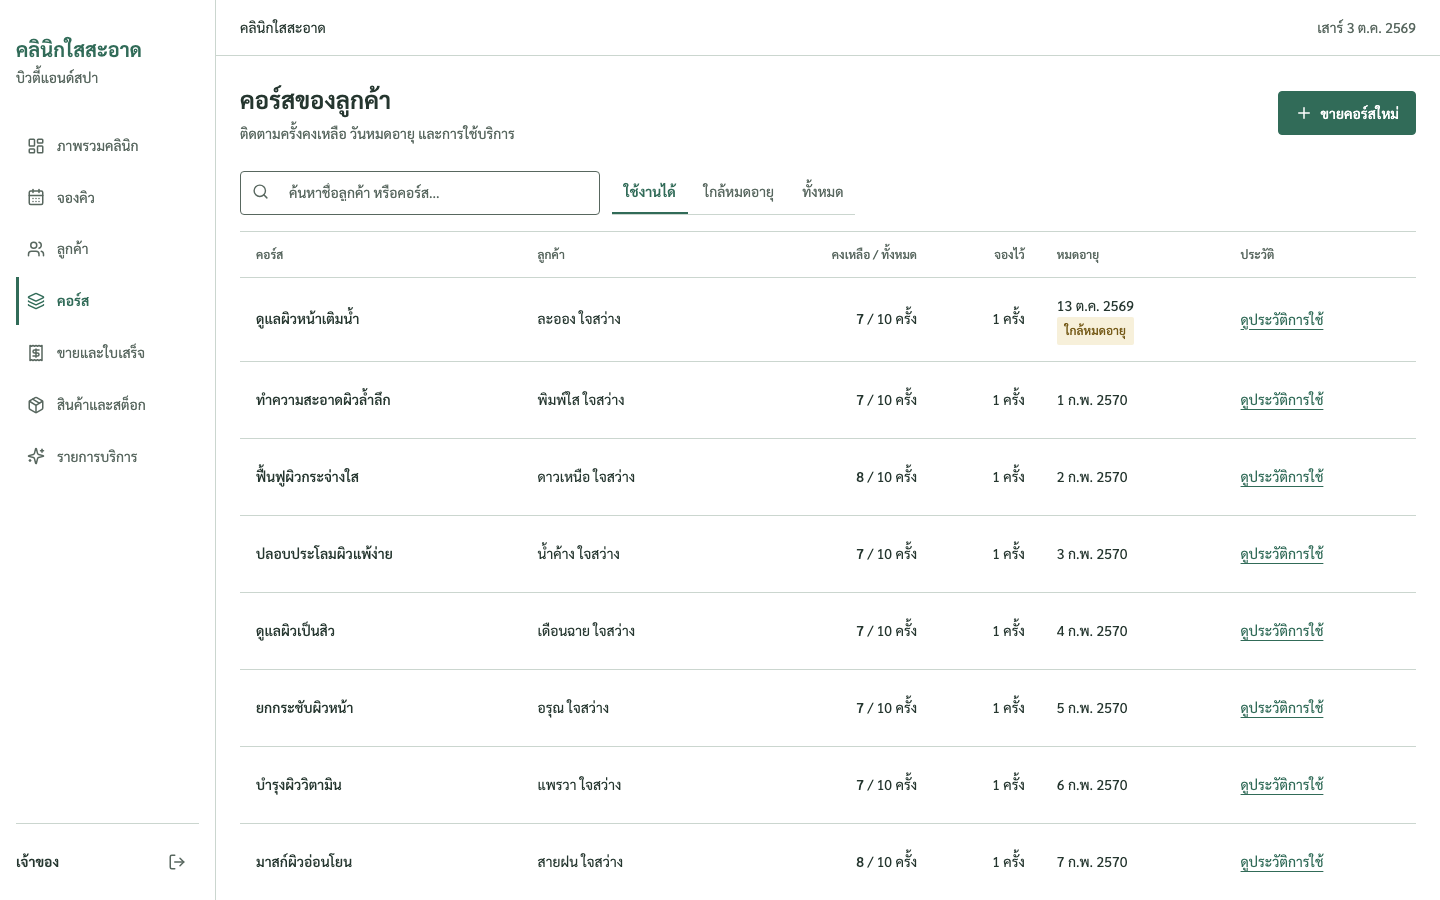
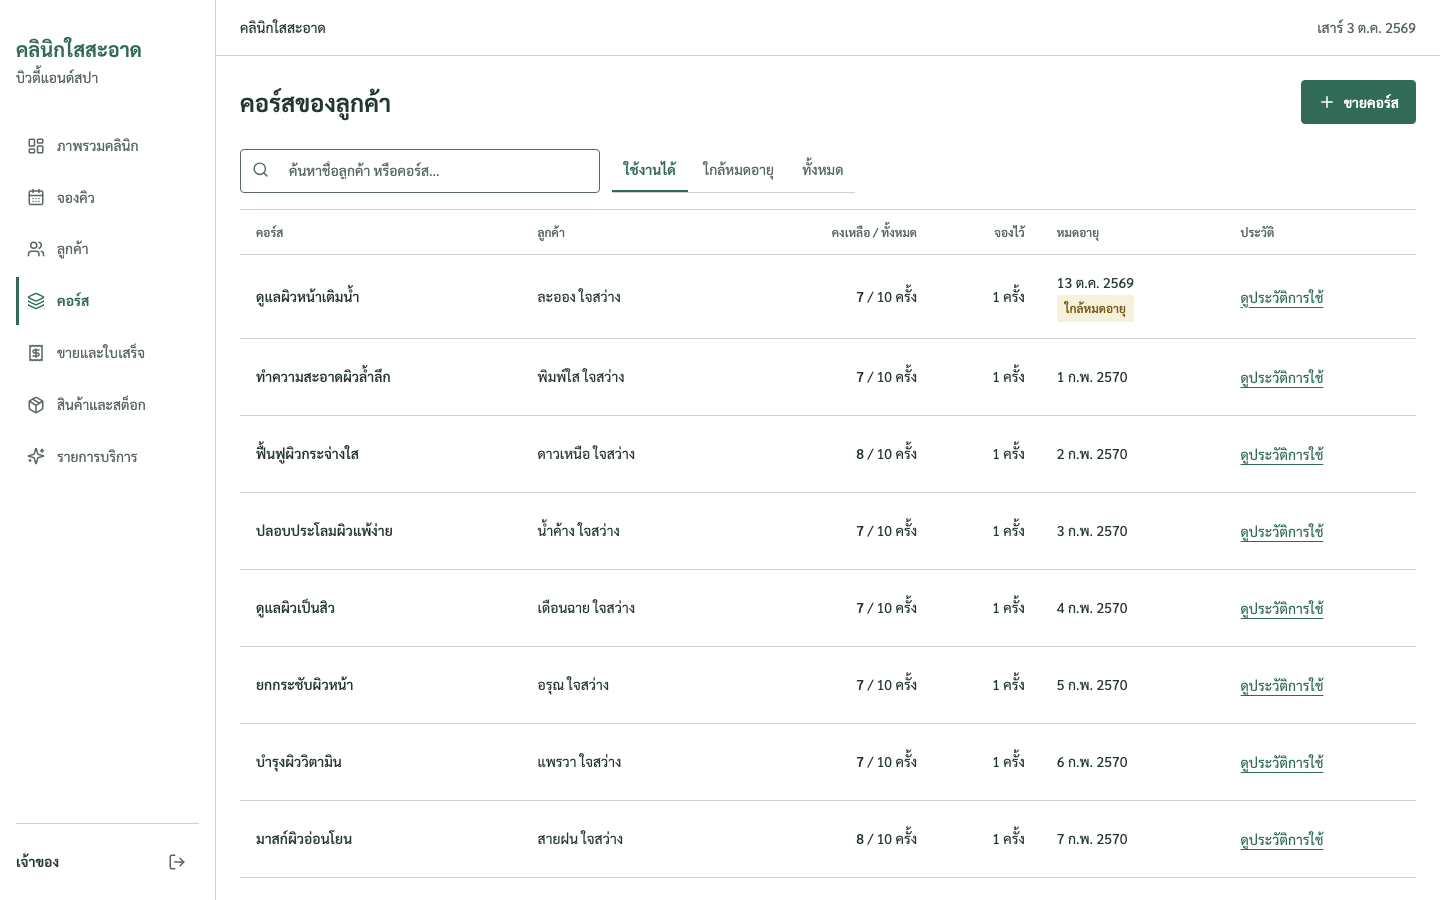
style(courses): present sessions and expiry as a clinic ledger

diff --git a/src/features/courses/Courses.tsx b/src/features/courses/Courses.tsx
@@ -4,7 +4,7 @@ import type { Course } from '../../domain/types';
 import { useClinic } from '../../services/useClinic';
 import { Empty, Modal, PageTitle, Skeleton } from '../../components/ui';
 import { thaiDate } from '../../lib/format';
-import { CourseCards } from './CourseCards';
+import { CourseCards, reservedSessions } from './CourseCards';
 import { SellCourse } from './SellCourse';
 export function Courses() {
   const { data, error, refresh } = useClinic();
@@ -34,10 +34,10 @@ export function Courses() {
   });
   return (
     <div data-ready="true">
-      <PageTitle title="คอร์สของลูกค้า" subtitle="ติดตามครั้งคงเหลือ วันหมดอายุ และการใช้บริการ">
+      <PageTitle title="คอร์สของลูกค้า">
         <button className="button" onClick={() => setSell(true)}>
           <Plus size={18} />
-          ขายคอร์สใหม่
+          ขายคอร์ส
         </button>
       </PageTitle>
       <div className="toolbar">
@@ -72,14 +72,29 @@ export function Courses() {
           ))}
         </div>
       </div>
-      <CourseCards
-        courses={items.slice(page * 12, page * 12 + 12)}
-        data={data}
-        onSelect={setSelected}
-      />
+      {items.length ? (
+        <CourseCards
+          courses={items.slice(page * 12, page * 12 + 12)}
+          data={data}
+          onSelect={setSelected}
+        />
+      ) : (
+        <Empty text="ไม่พบคอร์สที่ตรงกับคำค้นหรือสถานะ" hint="ล้างคำค้นหรือเลือกสถานะอื่น">
+          <button
+            className="button secondary"
+            onClick={() => {
+              setSearch('');
+              setFilter('active');
+              setPage(0);
+            }}
+          >
+            ล้างตัวกรอง
+          </button>
+        </Empty>
+      )}
       <div className="pagination">
         <span>
-          {items.length} คอร์ส · หน้า {page + 1} / {Math.max(1, Math.ceil(items.length / 12))}
+          {items.length} คอร์ส หน้า {page + 1} / {Math.max(1, Math.ceil(items.length / 12))}
         </span>
         <div className="actions">
           <button className="button secondary" disabled={!page} onClick={() => setPage(page - 1)}>
@@ -100,7 +115,9 @@ export function Courses() {
       <Modal title="ประวัติการใช้คอร์ส" open={!!selected} onClose={() => setSelected(null)}>
         <h3>{data.treatments.find((item) => item.id === selected?.treatmentId)?.name}</h3>
         <p className="small muted">
-          ครั้งคงเหลือ {selected?.remaining} / {selected?.total} · จองไว้แยกจากครั้งที่ใช้แล้ว
+          คงเหลือ {selected?.remaining} / {selected?.total} ครั้ง
+          <br />
+          จองไว้ {selected ? reservedSessions(data, selected.id) : 0} ครั้ง
         </p>
         {selected?.usages.length ? (
           selected.usages.map((item, index) => (
@@ -111,7 +128,7 @@ export function Courses() {
             </div>
           ))
         ) : (
-          <Empty text="ยังไม่มีประวัติการใช้คอร์ส" />
+          <Empty text="ยังไม่มีประวัติการใช้คอร์ส" hint="ครั้งจะถูกบันทึกเมื่อจบบริการ" />
         )}
       </Modal>
     </div>

diff --git a/src/features/courses/SellCourse.tsx b/src/features/courses/SellCourse.tsx
@@ -1,4 +1,4 @@
-import { useState, type FormEvent } from 'react';
+import { useId, useState, type FormEvent } from 'react';
 import { toast } from 'sonner';
 import type { ClinicData, Payment } from '../../domain/types';
 import { getService } from '../../services';
@@ -17,6 +17,7 @@ export function SellCourse({
   onSuccess: () => Promise<void>;
   customerId?: string;
 }) {
+  const formId = useId();
   const [customerId, setCustomerId] = useState(initialCustomer || data.customers[0]?.id || '');
   const [treatmentId, setTreatmentId] = useState(data.treatments[0]?.id || '');
   const [sessions, setSessions] = useState(10);
@@ -55,14 +56,29 @@ export function SellCourse({
     }
   }
   return (
-    <Modal open={open} onClose={onClose} title="ขายคอร์สใหม่">
-      <form onSubmit={submit}>
+    <Modal
+      open={open}
+      onClose={onClose}
+      title="ขายคอร์ส"
+      summary={
+        <>
+          <strong>{data.customers.find((item) => item.id === customerId)?.name}</strong>
+          <span className="numeric">{money(price)}</span>
+        </>
+      }
+      footer={
+        <button className="button" form={formId} type="submit" disabled={busy}>
+          {busy ? 'กำลังบันทึก' : 'บันทึกการขายคอร์ส'}
+        </button>
+      }
+    >
+      <form id={formId} onSubmit={submit}>
         <label>
           ลูกค้า
           <select value={customerId} onChange={(event) => setCustomerId(event.target.value)}>
             {data.customers.map((item) => (
               <option key={item.id} value={item.id}>
-                {item.name} · {item.phone}
+                {item.name} ({item.phone})
               </option>
             ))}
           </select>
@@ -111,16 +127,13 @@ export function SellCourse({
         </label>
         <div className="list-row">
           <span>ราคาคอร์ส (ส่วนลด 15%)</span>
-          <strong>{money(price)}</strong>
+          <strong className="numeric">{money(price)}</strong>
         </div>
         {error && (
           <p className="error" role="alert">
             {error}
           </p>
         )}
-        <button className="button" disabled={busy}>
-          {busy ? 'กำลังบันทึก' : 'ยืนยันขายคอร์ส'}
-        </button>
       </form>
     </Modal>
   );
